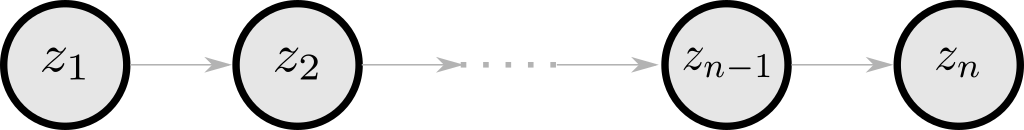
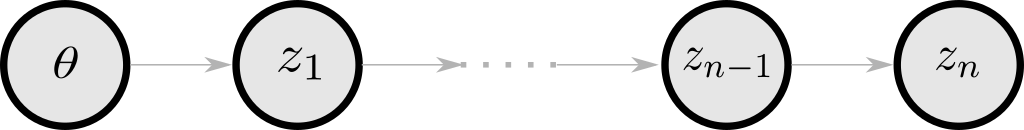
update

Changed region(s): [[0.0312, 0.3385, 0.0938, 0.6154], [0.25, 0.3692, 0.3125, 0.6154]]

diff --git a/_posts/2024-05-07-bench-hvp.md b/_posts/2024-05-07-bench-hvp.md
@@ -170,44 +170,55 @@ In what follows, we briefly present the notion of computational graph and the tw
 
 ### Computational graph
 
-A key ingredient of AD is a computational graph associated with the code that evaluates a function. It is a directed acyclic graph that represents the succession of elementary operations required the evaluate a function.  Let us consider a multilayer linear perceptron (MLP) with 2 layers $$f_x:\mathbb{R}^2\times \mathbb{R}^{2\times 2}\to \mathbb{R}$$ defined for a provided $$x\in\mathbb{R}^2$$ by
+A key ingredient of AD is a computational graph associated with the code that evaluates a function.
+It is a directed acyclic graph that represents the succession of elementary operations required the evaluate a function.  
+Simple computational graph of a function $$f:\mathbb{R}^d\to\mathbb{R}^p$$ are typically
+
+{% include figure.html path="assets/img/2024-05-07-bench-hvp/direct_graph.png" class="img-fluid"%}
+
+In this graph, the vertices $$z_i\in\mathbb{R}^{m_i}$$ represent the intermediate states of the evaluation of $$f$$.
+To get the vertex $$z_i$$, we use the values of its parents in the graph $$z_{i-1}$$, with simple transfer functions $$z_i(z_{i-1})$$.
+The computational complexity of the function evaluation depends on the complexity of the considered graph, as one node might have more than one parent.
+The memory footprint of the evaluation of the function is also linked to the maximum number of parents that can have a vertex in the computational graph, as their value needs to be stored until all children nodes have been computed.
+
+Let us take an example with a multilayer linear perceptron (MLP) with 2 layers.
+The function $$f_x:\mathbb{R}^h\times \mathbb{R}^{h\times p}\to \mathbb{R}$$ is defined for $$x\in\mathbb{R}^p$$ by
 
 \begin{equation}\label{eq:mlp}
   f_x(U, W) = \frac12(UWx)^2\enspace.
 \end{equation}
 
+Here, the input $$\theta$$ corresponds to the parameters of the network $$(U, V)$$ and the intermediate steps are $$z_1 = Wx$$, $$z_2 = Uz_1$$ and $$z_3 = \frac12 z_2^2$$.
 A possible computational graph to get $$f_x(U, W)$$ is the following
 
 {% include figure.html path="assets/img/2024-05-07-bench-hvp/computational_graph.png" class="img-fluid"%}
 
-In this graph, the vertices $$z_i$$ represent the intermediate states of the evaluation of $$f_x$$. Hence, the complexity of a function evaluation depends on the complexity of the considered computational graph. In terms of memory, to get the vertex $$z_i$$, we use the values stored by its parents in the graph. Thus, the memory footprint of the evaluation of the function is linked to the maximum number of parents that can have a vertex in the computational graph. Particularly in our case, each node has at most two parents. The Python code to compute $$f_x$$ by following the previous computational graph is the following
-
+and the associated Python code to compute $$f_x$$ is
 ```python
 def f(U, W):
     z1 = W @ x
     z2 = U @ z1
-    output = 0.5 * z2**2
-    return output
+    z3 = 0.5 * z2**2
+    return z3
 ```
 
-To explain how AD works, we take a simple example. Let us consider a function $$f:\mathbb{R}^d\to\mathbb{R}^p$$ with this computational graph.
+Here, the feed-forward structure of the function makes the computational graph very simple, as each node has a single intermediate result parent.
 
-{% include figure.html path="assets/img/2024-05-07-bench-hvp/direct_graph.png" class="img-fluid"%}
 
-By denoting $$z_1 = \theta$$ and $$z_n = f(\theta)$$ and assuming $$z_i\in\mathbb{R}^{m_i}$$, the chain rule gives us the expression of the Jacobian $$\frac{\partial f}{\partial \theta}(\theta)$$ as a product of the Jacobian of the intermediate states $$z_1, \dots, z_n$$.
+AD uses this computational graph to compute the function's derivatives.
+Using the chain rule, the Jacobian $$\frac{\partial f}{\partial \theta}(\theta)$$ of $$f$$ is obtained as a product of the Jacobian of the intermediate states $$z_1, \dots, z_n$$.
 \begin{equation}\label{eq:chain_rule}
-  \underbrace{\frac{\partial f}{\partial \theta}(\theta)}\_{p\times q} = \frac{\partial z_n}{\partial z_1}
-    =\frac{\partial z_n}{\partial z_2}\frac{\partial z_2}{\partial z_1}=\cdots = \underbrace{\frac{\partial z_n}{\partial z_{n-1}}}\_{m_n\times m_{n-1}}\underbrace{\frac{\partial z_{n-1}}{\partial z_{n-2}}}\_{m_{n-1}\times m_{n-2}}\cdots\underbrace{\frac{\partial z_2}{\partial z_1}}\_{m_2\times m_{1}}\enspace.
+  \underbrace{\frac{\partial f}{\partial \theta}(\theta)}\_{p\times d} = \frac{\partial z_n}{\partial \theta}
+    =\frac{\partial z_n}{\partial z_1}\frac{\partial z_1}{\partial \theta}=\cdots = \underbrace{\frac{\partial z_n}{\partial z_{n-1}}}\_{p\times m_{n-1}}\underbrace{\frac{\partial z_{n-1}}{\partial z_{n-2}}}\_{m_{n-1}\times m_{n-2}}\cdots\underbrace{\frac{\partial z_1}{\partial \theta}}\_{m_1\times d}\enspace.
 \end{equation}
-
-Depending on the order of the multiplication, one can compute the derivative of $$f$$ with respect to $$z_1$$ in two ways: the forward mode and the reverse mode.
+Depending on the order of the multiplication, one can compute the derivative of $$f$$ with respect to $$\theta$$ in two ways: the forward mode and the reverse mode.
 
 ### Forward mode
 
 The forward mode aims at computing JVPs 
 
 \begin{equation}\label{eq:chain_rule_jvp}
-  \frac{\partial f}{\partial \theta}(\theta)\times v = \frac{\partial z_n}{\partial z_{n-1}}\frac{\partial z_{n-1}}{\partial z_{n-2}}\cdots\frac{\partial z_2}{\partial z_1}v\enspace.
+  \frac{\partial f}{\partial \theta}(\theta)\times v = \frac{\partial z_n}{\partial z_{n-1}}\frac{\partial z_{n-1}}{\partial z_{n-2}}\cdots\frac{\partial z_1}{\partial \theta}v\enspace.
 \end{equation}
 
 It consists in doing the multiplications in \eqref{eq:chain_rule_jvp} from the right to the left. It is a forward pass in the computational graph where we propagate at the same time the states $$z_i$$ and the partial derivatives $$\frac{\partial z_{i+1}}{\partial z_i}$$. If $$f$$ is real-valued, we get its gradient by computing $$d$$ JVPs since 
@@ -222,17 +233,16 @@ To understand properly what is happening when using forward differentiation, let
 If we code ourselves the forward differentiation to get the JVP, we obtain the following code
 
 ``` python
-def jvp(U, W, vu, vw):
+def jvp(U, W, v_u, v_w):
     # Forward diff of f
     z1 = W @ x
-    vz1 = vw @ x  # Directional derivative of W -> W @ x in the direction vw
-
-    z2 = U @ z1
-    vz2 = U @ vz1 + vu @ z1  #  Directional derivative of (U, z_1) -> U @ z1 in the direction (vu, vz1)
+    v_z1 = v_w @ x  # Directional derivative of W -> W @ x in the direction v_w
   
-    output = vz2 @ z2  # Directional derivative of z2 -> .5*z2**2 in the direction vz2 
-
-    return output
+    z2 = U @ z1
+    v_z2 = U @ v_z1 + v_u @ z1  #  Directional derivative of (U, z_1) -> z2 in the direction (v_u, v_z1)
+  
+    v_z3 = v_z2 @ z2  # Directional derivative of z2 -> .5*z2**2 in the direction v_z2 
+    return v_z3
 ```
 
 In comparison with the code of the evaluation of $$f_x$$, there are two more operations corresponding to the computation of the dual variable `vz1` and `vz2`. In terms of memory, if we consider the computational of the JVP as coded in the previous snippet, the maximum number of parents of a vertex is four. This maximum is achieved by the vertex `vz2` which has the vertices `U`, `vz1`, `vu` and `z1` as parents.
@@ -243,7 +253,7 @@ In `JAX`, we get the JVP of $$f$$ at $$x$$ in the direction $$v$$ with `jax.jvp(
 The reverse mode aims at computing VJPs
 
 \begin{equation}\label{eq:chain_rule_vjp}
-  v^\top\frac{\partial f}{\partial \theta}(\theta) = v^\top\frac{\partial z_n}{\partial z_{n-1}}\frac{\partial z_{n-1}}{\partial z_{n-2}}\cdots\frac{\partial z_2}{\partial z_1}\enspace.
+  v^\top\frac{\partial f}{\partial \theta}(\theta) = v^\top\frac{\partial z_n}{\partial z_{n-1}}\frac{\partial z_{n-1}}{\partial z_{n-2}}\cdots\frac{\partial z_1}{\partial \theta}\enspace.
 \end{equation}
 
 In the reverse AD, the multiplications of \eqref{eq:chain_rule_jvp} are done from the left to the right. It requires doing one forward pass in the computational graph to compute the intermediate states $$z_i$$ and then a backward pass to propagate the successive partial derivatives from the left to the right. Contrary to the forward mode, it has a more important memory footprint. Indeed, it requires storing the values of all the states. For instance, to compute the last term $$\frac{\partial z_3}{\partial z_2}$$, one needs the value of $$z_2$$ which was the first computed during the forward pass. If $$f$$ is scalar, its gradient is a VJP with $$v=1$$. Thus, one can get the gradient on $$f$$ by performing only one reverse differentiation. This makes this mode more efficient in computing gradients.
@@ -252,21 +262,21 @@ Let us observe what happens if we code manually the backpropagation to get the g
 
 ``` python
 def gradient(U, W):
-    ## Forward pass
+    # Forward pass
     z1 = W @ x
     z2 = U @ z1
-    output = 0.5 * z2**2
+    z3 = 0.5 * z2**2
 
-    ## Reverse pass
-    ### output = 0.5 * z2**2
-    dz2 = z2
-
-    ### z2 = U @ z1
-    dU = jnp.outer(dz2, z1)
-    dz1 = U.T @ dz2
-
-    ### z1 = W @ x
-    dW = jnp.outer(dz1, x)
+    # Reverse pass
+    ## Transfert function: z3 = 0.5 * z2**2
+    dz2 = z2  # derivative of z3 wrt z2
+  
+    ## Transfert function: z2 = U @ z1
+    dU = jnp.outer(dz2, z1)  # derivative of z3 wrt U
+    dz1 = U.T @ dz2  # derivative of z3 wrt z1
+  
+    ## Transfert function: z1 = W @ x
+    dW = jnp.outer(dz1, x)   # derivative of z3 wrt W
     
     return dU, dW
 ```
@@ -303,36 +313,42 @@ Its implementation in `JAX` is only two lines of code.
 def hvp_forward_over_reverse(f, params, v):
   return jax.jvp(jax.grad(f), (params, ), (v, ))[1]
 ```
-In this case, `jax.grad(f)(params)` is computed by backward AD, whose complexity is two times the complexity of evaluating $$f$$. Thus, the temporal complexity of `hvp_forward_over_reverse` is roughly four times the complexity of the evaluation of $$f$$.
+In this case, `jax.grad(f)(params)` is computed by backward AD, whose complexity is two times the complexity of evaluating $$f$$.
+Thus, the temporal complexity of `hvp_forward_over_reverse` is roughly four times the complexity of the evaluation of $$f$$.
 
 To better see what happens, let us consider again our function $$f_x$$ defined by \eqref{eq:mlp}. The Python code of the `forward-over-reverse` HVP is the following.
 
 ```python
-def forward_over_reverse(U, W, vu, vw):
-    # Forward through f
+def forward_over_reverse(U, W, v_U, v_W):
+    # Forward through the forward pass through f
     z1 = W @ x
-    vz1 = vw @ x
-
+    v_z1 = v_W @ x
+  
     z2 = U @ z1
-    vz2 = U @ vz1 + vu @ z1
-
-    z3 = z2  # dz2
-    vz3 = vz2
-
-    # Backward through f
-    z4 = jnp.outer(z3, z1)  # dU
-    vz4 = jnp.outer(vz3, z1) + jnp.outer(z3, vz1) 
-
-    z5 = U.T @ z3  # dz1
-    vz5 = U.T @ vz3 + vu.T @ z3
-
-    z6 = jnp.outer(z5, x)  # dW
-    vz6 = jnp.outer(vz5, x)
-
-    return vz4, vz6
+    v_z2 = U @ v_z1 + v_U @ z1
+    
+    # z3 = 0.5 * z2**2
+    # Forward through the backward pass through f
+    z4 = z2  # dz2
+    v_z4 = v_z2  # v_dz2
+  
+    z5 = jnp.outer(z4, z1)  # dU
+    v_z5 = jnp.outer(v_z4, z1) + jnp.outer(z4, v_z1)  # v_dU
+  
+    z6 = U.T @ z4  # dz1
+    v_z6 = U.T @ v_z4 + v_U.T @ z4  # v_dz1
+  
+    z7 = jnp.outer(z6, x)  # dW
+    v_z7 = jnp.outer(v_z6, x)  # v_dW
+  
+    return v_z5, v_z7  # v_dU, v_dW
   ```
 
-The take-home message of this part is that, after computing the gradient of $$f_x$$, one can consider a computational graph of this gradient and performs forward differentiation through this new computational graph. Here, the variables `z1`,..., `z6` are the vertices of a computational graph of the gradient of $$f_x$$. The nice thing is that this mode enables getting at the same time the gradient and the HVP. Indeed, in the previous snippet, `z4` and `z6` are actually the components of the gradient of $$f_x$$ which could be also returned if needed. This feature can be useful in bilevel optimization for instance.
+The take-home message of this part is that, after computing the gradient of $$f_x$$, one can consider a computational graph of this gradient and perform forward differentiation through this new computational graph.
+Here, the variables `z1`,..., `z7` are the vertices of a computational graph of the gradient of $$f_x$$.
+The nice thing is that this mode enables getting at the same time the gradient and the HVP.
+Indeed, in the previous snippet, `z5` and `z7` are the components of the gradient of $$f_x$$ which could be also returned if needed. 
+This feature can be useful in bilevel optimization for instance.
 
 ### Reverse-over-reverse
 Instead of doing forward differentiation of the gradient, one can multiply the gradient by $$v$$ and thus get a scalar. We can then backpropagate into this scalar product. This is the reverse-over-reverse mode.
@@ -347,52 +363,50 @@ Since the gradients are computed by backpropagation, the complexity of `hvp_reve
 Writting down the code of the reverse-over-reverse HVP for our function $$f_x$$ defined by \eqref{eq:mlp} makes us understand the differences between this mode and the `forward-over-reverse` mode. Particularly, one can notice that there are more elementary operations in the `reverse-over-reverse` mode than in the `forward-over-reverse` mode. Moreover, in terms of memory footprint, the `reverse-over-reverse` requires storing the values of the vertices of the computational graph of the gradient of $$f_x$$, while the `forward-over-reverse` only needs to store the values of the vertices of the computational graph of $$f_x$$. Thus, the former is less efficient than the latter.
 
 ```python
-def reverse_over_reverse(U, W, vu, vw):
-    # Forward through grad(f)
+def reverse_over_reverse(U, W, v_u, v_w):
+    # Forward through <grad(f), v>
     ## Forward through f
     z1 = W @ x
     z2 = U @ z1
-    output = 0.5 * jnp.linalg.norm(z2)**2
-
+    z3 = 0.5 * jnp.linalg.norm(z2)**2
+  
     ## Reverse through f
-    ### output = 0.5 * jnp.linalg.norm(z2)**2
-    z3 = z2  # dz2
-
-    ### z2 = U @ z1
+    z4 = z2  # dz2
     z4 = jnp.outer(z3, z1) # dU
     z5 = U.T @ z3 # dz1
     z6 = jnp.outer(z5, x) # dW
-
-    # Dot product <grad(f), v>
-    output = jnp.sum(vu * z4) + jnp.sum(vw * z6)
-
-    # Backward through <grad(f),v>
-    ## output = jnp.sum(vu * z4) + jnp.sum(vw * z6)
-    dz6 = vw
-    dz4 = vu
-
+  
+    # Output: dot product <grad(f), v>
+    z7 = jnp.sum(z4 * v_u) + jnp.sum(z6 * v_w)
+  
+    # Backward through z7 = <grad(f),v>
+    ## z7 = jnp.sum(z4 * v_u) + jnp.sum(z6 * v_w)
+    dz6 = v_w
+    dz4 = v_u
+  
     ## z6 = jnp.outer(z5, x)
     dz5 = dz6 @ x
-
+  
     ## z5 = U.T @ z3
     dz3 = U @ dz5
-    dU = jnp.outer(z3, dz5)
-
+    ddU = jnp.outer(z3, dz5)  # Derivative of z7 wrt U
+  
     ## z4 = jnp.outer(z3, z1)
     dz3 += dz4 @ z1
     dz1 = dz4.T @ z3
-
+  
     ## z3 = z2
     dz2 = dz3
-
+  
     ## z2 = U @ z1
     dz1 += dz2 * U
-    dU += jnp.outer(dz2, z1)
-
+    # As U appears multiple times in the graph, we sum its contributions
+    ddU += jnp.outer(dz2, z1) 
+  
     ## z1 = W @ x
-    dW = jnp.outer(dz1, x)
-
-    return dU, dW
+    ddW = jnp.outer(dz1, x)  # Derivative of z7 wrt W
+  
+    return ddU, ddW
   ```
 
 ### Reverse-over-forward
@@ -409,41 +423,36 @@ This method a more efficient than the previous one. Indeed, since we backpropaga
 The code of the `reverse-over-forward` HVP for the MLP $$f_x$$ defined by \eqref{eq:mlp} is the following. 
 
 ```python
-def reverse_over_forward(U, W, vu, vw):
-    # Forward diff of f to get jvp(f, (U, W), (vu, vw))
+def reverse_over_forward(U, W, v_U, v_W):
+    # Forward diff of f to  <grad(f), v>
     z1 = W @ x
-    vz1 = vw @ x
-
+    z6 = v_W @ x  # v_z1
+  
     z2 = U @ z1
-    vz2 = U @ vz1 + vu @ z1
-
-    output = vz2 @ z2
-
-    # Backward pass through jvp(f, (U, W), (vu, vw))
-    ## output = vz2 @ z2
-    dz2 = vz2
-    dvz2 = z2
-
-    ## vz2 = U @ vz1 + vu @ z1
-    dz1 = vu.T @ dvz2
-    dvu = jnp.outer(dvz2, z1) 
-    dvz1 = U.T @ dvz2
-    dU = jnp.outer(dvz2, vz1)
-
+    z5 = U @ z6 + v_U @ z1  # v_z2
+  
+    # output <grad(f), v>
+    z4 = z5 @ z2  # v_z3
+  
+    # Backward pass through <grad(f), v>
+    ## z4 = z5 @ z2
+    dz2 = z5
+    dz5 = z2  # dv_z2
+  
+    ## z5 = U @ z6 + v_U @ z1
+    dz1 = v_U.T @ dz5
+    dz6 = U.T @ dz5  # dv_z1
+    ddU = jnp.outer(dz5, z6)  # derivative of z4 wrt U
+  
     ## z2 = U @ z1
+    # As U and dz1 appear multiple times, we sum their contributions
     dz1 += U.T @ dz2
-    dU += jnp.outer(dz2, z1)
-
-    ## vz1 = vw @ x
-    dvw = jnp.outer(dvz1, x)
+    ddU += jnp.outer(dz2, z1)
     
     ## z1 = W @ x
-    dW = jnp.outer(dz1, x)
-
-    return dU, dW
+    ddW = jnp.outer(dz1, x)
+    return ddU, ddW
 ```
-
-Now we turn to the main contribution of this blog post, which is a benchmark of the different methods to compute HVPs.
 
 ## Benchmark with deep learning architectures
 
